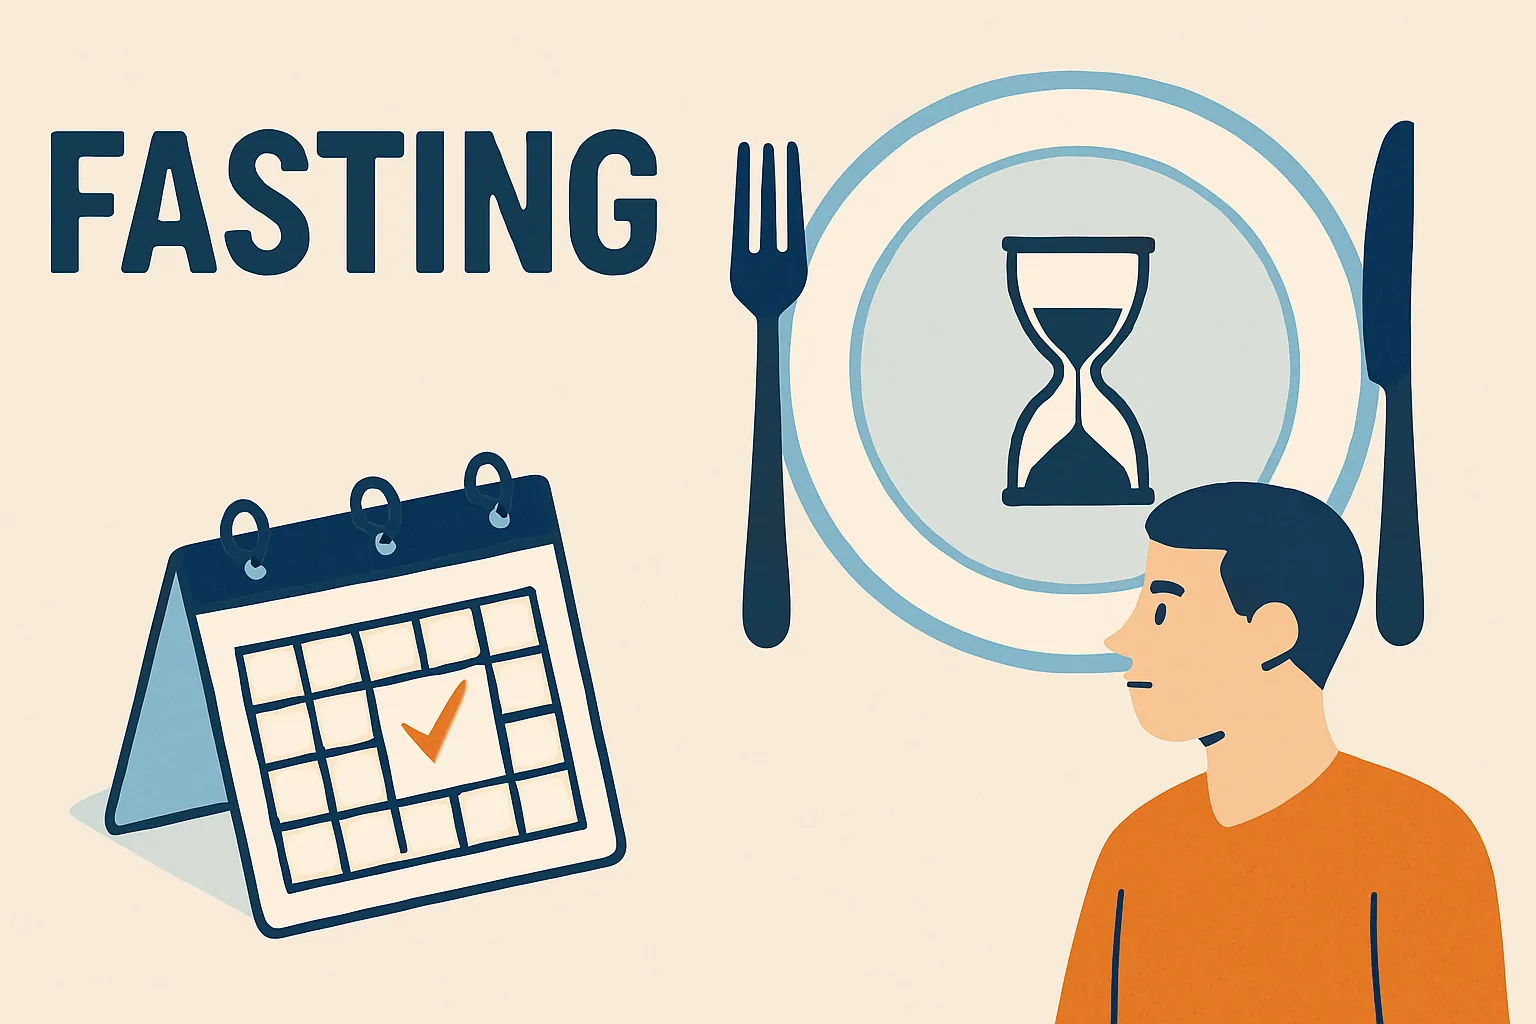
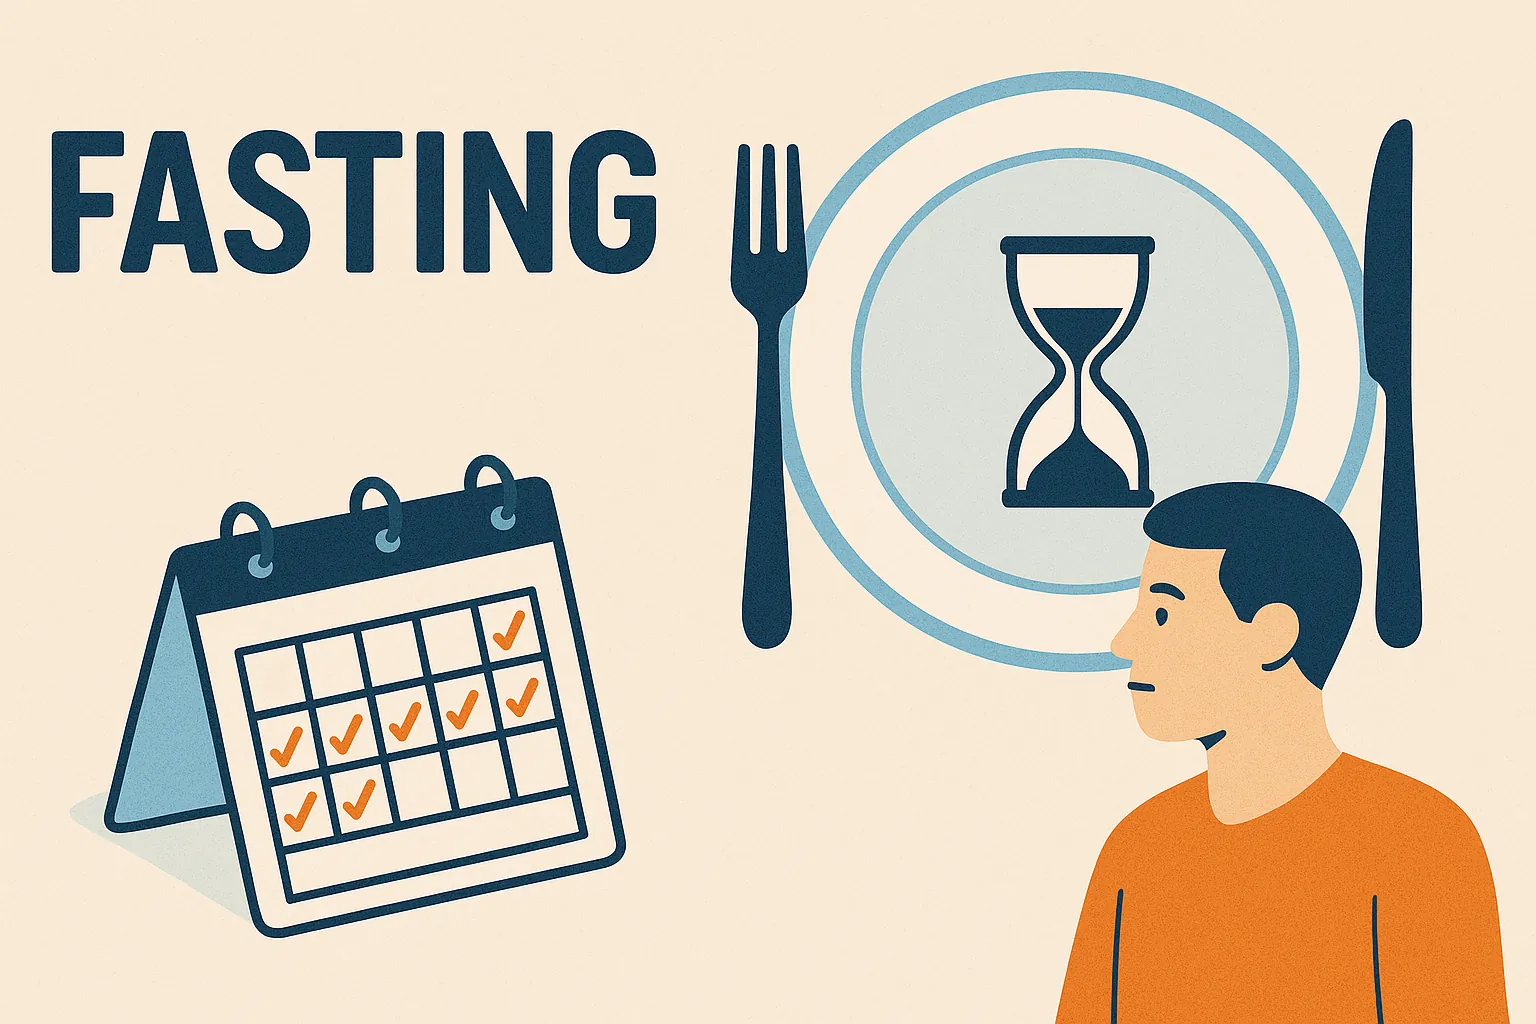
strict-fasting-8days 1 month update

diff --git a/docs/articles/posts/personal-development/experience-strict-fasting-8days/experience-strict-fasting-8days.md b/docs/articles/posts/personal-development/experience-strict-fasting-8days/experience-strict-fasting-8days.md
@@ -2,11 +2,12 @@
 title: "Experience: Strict fasting for 8 days"
 slug: experience-strict-fasting-8days
 date: 2025-04-10
-updated: 2025-04-10
+updated: 2025-04-12
 tags:
 - Experience
 - Guide
 - Fitness
+- Health
 categories:
 - Personal Development
 description: I did near zero calories fasting for 8 days - here's what happened
@@ -24,7 +25,7 @@ comments: true
 ## Motivation
 - **Fatty liver**: simple calories deficit doesn't help - deep ketosis e.g. through fasting necessary [^fattyliver]
 - Experience how **deep ketosis & autophagy** feel
-- Reset salt, sweetness, insulin and food volume **desensitization**
+- Reset salt, sweetness, insulin and food volume **desensitization** as well as **breaking habits** of e.g. regular snacking or eating out of **boredom rather than hunger**
 - Get a bit **leaner**
 
 ## The plan
@@ -36,7 +37,7 @@ comments: true
 - **Tea**
     - Dandelion "Löwenzahn"
     - Nettle "Brenessel"
-- Apple **vinegar**: mild, low in calories and inhibits insulin spike
+- **Apple vinegar** (for tea): mild, low in calories and inhibits insulin spike
 
 #### Supplements
 - **Vitamins**: [^vitamins]
@@ -115,6 +116,12 @@ comments: true
 #### Day 7-10
 - Prepare for **ending the fasting** based on personal goals and how fasting that long feels
 
+#### Day 14-16
+- Measure again after ~1 week of eating normal to **learn about short term recovery**
+
+#### Day ~30
+- Measure again to learn about **longer term (persistent) effects**
+
 ## My actual experience
 
 ### Energy/Endurance
@@ -126,10 +133,10 @@ comments: true
 
 ``` mermaid
 xychart-beta
-        x-axis "Day" [0, 1, 2, 3, 4, 5, 6, 7, 8, 9, 10, 11, 16]
+        x-axis "Day" [0, 1, 2, 3, 4, 5, 6, 7, 8, 9, 10, 11, 16, 27]
         y-axis "1 to 5 (highest)" 1 --> 5
 
-        bar "Energy" [5, 3, 2, 3, 3, 2, 3, 2, 1, 3, 4, 4, 4]
+        bar "Energy" [5, 3, 2, 3, 3, 2, 3, 2, 1, 3, 4, 4, 4, 5]
         bar "Energy" [5, 3, 2, 3, 3, 2, 3, 2, 1, 3, 4, 4]
 ```
 
@@ -139,6 +146,7 @@ xychart-beta
     - this again showed that activity wasn't impossible, but rather the **body just "strongly discouraged" activity to conserve energy**
 - Even after eating normally again, especially during training (gymnastics) I noticed energy wasn't back to the levels before
 - Energy preservation was also noticeable through indoor **temperature feeling 2-5°C lower** and warmer clothes didn't help so much as cranking the heating up
+- Might be due to needing to establish a proper sleep routine again or due to being very careful about gaining any unwanted fat back, but my energy levels only really recovered fully after about 1 month (also with 1 week vacation during that time)
 
 ### Power/strength output
 
@@ -147,10 +155,10 @@ xychart-beta
 
 ``` mermaid
 xychart-beta
-        x-axis "Day" [0, 1, 2, 3, 4, 5, 6, 7, 8, 9, 10, 11, 16]
+        x-axis "Day" [0, 1, 2, 3, 4, 5, 6, 7, 8, 9, 10, 11, 16, 27]
         y-axis "1 to 5 (highest)" 1 --> 5
 
-        bar "Power" [5, 3, 4, 4, 3, 3, 4, 3, 4, 4, 4, 4, 4]
+        bar "Power" [5, 3, 4, 4, 3, 3, 4, 3, 4, 4, 4, 4, 4, 5]
         bar "Power" [5, 3, 4, 4, 3, 3, 4, 3, 4, 4, 4, 4]
 ```
 
@@ -164,10 +172,10 @@ xychart-beta
 
 ``` mermaid
 xychart-beta
-        x-axis "Day" [0, 1, 2, 3, 4, 5, 6, 7, 8, 9, 10, 11, 16]
+        x-axis "Day" [0, 1, 2, 3, 4, 5, 6, 7, 8, 9, 10, 11, 16, 27]
         y-axis "1 to 5 (highest)" 1 --> 5
 
-        bar "Dizzy" [1, 1, 1, 2, 4, 2, 2, 2, 3, 3, 2, 1, 1]
+        bar "Dizzy" [1, 1, 1, 2, 4, 2, 2, 2, 3, 3, 2, 1, 1, 1]
         bar "Dizzy" [1, 1, 1, 2, 4, 2, 2, 2, 3, 3, 2, 1]
 ```
 
@@ -182,10 +190,10 @@ xychart-beta
 
 ``` mermaid
 xychart-beta
-        x-axis "Day" [0, 1, 2, 3, 4, 5, 6, 7, 8, 9, 10, 11, 16]
+        x-axis "Day" [0, 1, 2, 3, 4, 5, 6, 7, 8, 9, 10, 11, 16, 27]
         y-axis "1 to 5 (highest)" 1 --> 5
 
-        bar "Mood" [5, 4, 3, 4, 3, 4, 4, 4, 3, 2, 4, 4, 4]
+        bar "Mood" [5, 4, 3, 4, 3, 4, 4, 4, 3, 2, 4, 4, 4, 5]
         bar "Mood" [5, 4, 3, 4, 3, 4, 4, 4, 3, 2, 4, 4]
 ```
 
@@ -198,10 +206,10 @@ xychart-beta
 
 ``` mermaid
 xychart-beta
-        x-axis "Day" [0, 1, 2, 3, 4, 5, 6, 7, 8, 9, 10, 11, 16]
+        x-axis "Day" [0, 1, 2, 3, 4, 5, 6, 7, 8, 9, 10, 11, 16, 27]
         y-axis "1 to 5 (highest)" 1 --> 5
 
-        bar "Motivation" [5, 1, 2, 3, 3, 3, 4, 2, 3, 2, 3, 4, 5]
+        bar "Motivation" [5, 1, 2, 3, 3, 3, 4, 2, 3, 2, 3, 4, 5, 5]
         bar "Motivation" [5, 1, 2, 3, 3, 3, 4, 2, 3, 2, 3, 4]
 ```
 
@@ -213,13 +221,14 @@ xychart-beta
 
 ``` mermaid
 xychart-beta
-        x-axis "Day" [0, 1, 2, 3, 4, 5, 6, 7, 8, 9, 10, 11, 16]
+        x-axis "Day" [0, 1, 2, 3, 4, 5, 6, 7, 8, 9, 10, 11, 16, 27]
         y-axis "1 to 5 (highest)" 1 --> 5
 
-        bar "Hunger" [2, 2, 3, 2, 1, 1, 1, 2, 4, 3, 3, 3, 2]
+        bar "Hunger" [2, 2, 3, 2, 1, 1, 1, 2, 4, 3, 3, 3, 2, 1]
         bar "Hunger" [2, 2, 3, 2, 1, 1, 1, 2, 4, 3, 3, 3]
 ```
 
+- On day 0 hunger wasn't at its lowest due to the ongoing fasting prep of eating less for several weeks
 - As expected, probably **keeping insulin very low** at all times by staying at almost zero with calories helped with keeping **hunger in check** so that it was only a minor inconvenience - pretty unimportant e.g. compared to lower energy levels
 
 ### Craving
@@ -228,10 +237,10 @@ xychart-beta
 
 ``` mermaid
 xychart-beta
-        x-axis "Day" [0, 1, 2, 3, 4, 5, 6, 7, 8, 9, 10, 11, 16]
+        x-axis "Day" [0, 1, 2, 3, 4, 5, 6, 7, 8, 9, 10, 11, 16, 27]
         y-axis "1 to 5 (highest)" 1 --> 5
 
-        bar "Craving" [1, 2, 3, 4, 5, 4, 3, 4, 3, 4, 5, 3, 4]
+        bar "Craving" [1, 2, 3, 4, 5, 4, 3, 4, 3, 4, 5, 3, 4, 1]
         bar "Craving" [1, 2, 3, 4, 5, 4, 3, 4, 3, 4, 5, 3]
 ```
 
@@ -241,6 +250,7 @@ xychart-beta
 - On day 5 I switched out some tee with heavily diluted (20 kCal) DIY hot chocolate
 - On day 6 I **increased the sweetened consumption** yet again, **making it hard to fall and stay asleep**
 - Before going into calory surplus on day 11, I still felt **strong cravings** at intake levels that should have been around maintenance level (and I didn't feel hungry)
+- After about a month and working through my "want to cook and taste pipeline" I tried to focus 1) on only eating when hungry 2) reducing salt and sweetness in cooking in general 3) reducing snack frequency and size, which **after time toned down my cravings and eating out of habit or boredom**
 
 ### Pain
 
@@ -251,10 +261,10 @@ xychart-beta
 
 ``` mermaid
 xychart-beta
-        x-axis "Day" [0, 1, 2, 3, 4, 5, 6, 7, 8, 9, 10, 11, 16]
+        x-axis "Day" [0, 1, 2, 3, 4, 5, 6, 7, 8, 9, 10, 11, 16, 27]
         y-axis "1 to 5 (highest)" 1 --> 5
 
-        bar "Pain" [1, 1, 3, 4, 1, 2, 4, 1, 1, 1, 1, 1, 1]
+        bar "Pain" [1, 1, 3, 4, 1, 2, 4, 1, 1, 1, 1, 1, 1, 1]
         bar "Pain" [1, 1, 3, 4, 1, 2, 4, 1, 1, 1, 1, 1]
 ```
 
@@ -269,10 +279,10 @@ xychart-beta
 
 ``` mermaid
 xychart-beta
-        x-axis "Day" [0, 1, 2, 3, 4, 5, 6, 7, 8, 9, 10, 11, 16]
+        x-axis "Day" [0, 1, 2, 3, 4, 5, 6, 7, 8, 9, 10, 11, 16, 27]
         y-axis "1 to 5 (highest)" 1 --> 5
 
-        bar [5, 5, 5, 5, 4, 3, 2, 1, 4, 3, 3, 2, 4]
+        bar [5, 5, 5, 5, 4, 3, 2, 1, 4, 3, 3, 2, 4, 5]
         bar [5, 5, 5, 5, 4, 3, 2, 1, 4, 3, 3, 2]
 ```
 
@@ -285,10 +295,10 @@ xychart-beta
 
 ``` mermaid
 xychart-beta
-        x-axis "Day" [0, 1, 2, 3, 4, 5, 6, 7, 8, 9, 10, 11, 16]
+        x-axis "Day" [0, 1, 2, 3, 4, 5, 6, 7, 8, 9, 10, 11, 16, 27]
         y-axis "1 to 5 (highest)" 1 --> 5
 
-        bar "Sleepy" [1, 2, 3, 2, 3, 2, 4, 5, 4, 4, 3, 3, 2]
+        bar "Sleepy" [1, 2, 3, 2, 3, 2, 4, 5, 4, 4, 3, 3, 2, 1]
         bar "Sleepy" [1, 2, 3, 2, 3, 2, 4, 5, 4, 4, 3, 3]
 ```
 
@@ -303,15 +313,21 @@ xychart-beta
 
 ``` mermaid
 xychart-beta
-        x-axis "Day" [0, 1, 2, 3, 4, 5, 6, 7, 8, 9, 10, 11, 16]
+        x-axis "Day" [0, 1, 2, 3, 4, 5, 6, 7, 8, 9, 10, 11, 16, 27]
         y-axis "kg"
 
-        bar [66.4, 66.1, 65.5, 65.2, 65.2, 64.7, 63.9, 63.2, 62.8, 62.8, 63.4, 64.1, 65.4]
+        bar [66.4, 66.1, 65.5, 65.2, 65.2, 64.7, 63.9, 63.2, 62.8, 62.8, 63.4, 64.1, 65.4, 64.0]
         bar [66.4, 66.1, 65.5, 65.2, 65.2, 64.7, 63.9, 63.2, 62.8, 62.8, 63.4, 64.1]
 ```
 
-- Kind of in line with expectations, considering the bodies energy savings attempts maybe reducing my base metabolic rate from ~1600 to maybe below ~1300 or lower, **final weight loss was about 1kg** - 1.5kg
-- My body fat measured via caliper in the suprailiac area went from 6.5mm to 5.5mm (day 8)
+- Kind of in line with expectations, considering the bodies energy savings attempts maybe reducing my base metabolic rate from ~1600 to maybe below ~1300 or lower, **final weight loss was about 1kg to 2kg** (through fasting alone)
+  - It's worth to note that when I started to eat less already 2-3 weeks before the fasting, my weight was around 68kg
+  - The last weight of 64kg was after switching to a more low-carb, low-volume and less watery diet (and after day of generally eating less calories on top)
+- My suprailiac skinfold [^supra] measured via caliper went from 6.5mm to 5.5mm (day 8) to just shy of 6mm (day 27)
+
+![suprailiac](suprailiac.webp)
+
+[^supra]: https://legionathletics.com/body-fat-calipers/
 
 ### Resting heart rate
 
@@ -319,10 +335,10 @@ xychart-beta
 
 ``` mermaid
 xychart-beta
-        x-axis "Day" [0, 1, 2, 3, 4, 5, 6, 7, 8, 9, 10, 11, 16]
+        x-axis "Day" [0, 1, 2, 3, 4, 5, 6, 7, 8, 9, 10, 11, 16, 27]
         y-axis "bpm" 30 --> 51
 
-        bar [51, 45, 48, 37, 38, 37, 37, 47, 43, 47, 45, 49, 56]
+        bar [51, 45, 48, 37, 38, 37, 37, 47, 43, 47, 45, 49, 56, 54]
         bar [51, 45, 48, 37, 38, 37, 37, 47, 43, 47, 45, 49]
 ```
 
@@ -335,10 +351,10 @@ xychart-beta
 
 ``` mermaid
 xychart-beta
-        x-axis "Day" [0, 1, 2, 3, 4, 5, 6, 7, 8, 9, 10, 11, 16]
+        x-axis "Day" [0, 1, 2, 3, 4, 5, 6, 7, 8, 9, 10, 11, 16, 27]
         y-axis "kCal"
 
-        bar [1000, 20, 20, 20, 20, 80, 80, 140, 1500, 1800, 1800, 2400, 1900]
+        bar [1000, 20, 20, 20, 20, 80, 80, 140, 1500, 1800, 1800, 2400, 1900, 1300]
         bar [1000, 20, 20, 20, 20, 80, 80, 140, 1500, 1800, 1800, 2400]
 ```
 
@@ -352,10 +368,10 @@ xychart-beta
 
 ``` mermaid
 xychart-beta
-        x-axis "Day" [0, 1, 2, 3, 4, 5, 6, 7, 8, 9, 10, 11, 16]
+        x-axis "Day" [0, 1, 2, 3, 4, 5, 6, 7, 8, 9, 10, 11, 16, 27]
         y-axis "ml" 0 --> 3600
 
-        bar [2000, 2400, 2400, 2400, 2000, 2400, 3000, 3600, 1700, 2000, 2000, 2000, 2000]
+        bar [2000, 2400, 2400, 2400, 2000, 2400, 3000, 3600, 1700, 2000, 2000, 2000, 2000, 1500]
         bar [2000, 2400, 2400, 2400, 2000, 2400, 3000, 3600, 1700, 2000, 2000, 2000]
 ```
 
@@ -369,16 +385,18 @@ xychart-beta
 
 ``` mermaid
 xychart-beta
-        x-axis "Day" [0, 1, 2, 3, 4, 5, 6, 7, 8, 9, 10, 11, 16]
+        x-axis "Day" [0, 1, 2, 3, 4, 5, 6, 7, 8, 9, 10, 11, 16, 27]
         y-axis "mmHg"
 
-        line "Sys" [99, 98, 94, 100, 99, 97, 101, 99, 91, 94, 97, 93, 92]
+        line "Sys" [99, 98, 94, 100, 99, 97, 101, 99, 91, 94, 97, 93, 92, 93]
         line "Sys" [99, 98, 94, 100, 99, 97, 101, 99, 91, 94, 97, 93]
-        line "Dia" [66, 61, 59, 65, 69, 64, 68, 63, 55, 64, 58, 60, 57]
+        line "Dia" [66, 61, 59, 65, 69, 64, 68, 63, 55, 64, 58, 60, 57, 63]
 ```
 
 - Even though I exercise a lot, I guess due to low body weight **my blood pressure is generally low**, giving me not a lot of buffer before other circumstances that lower pressure even further lead noticeable dizziness
 - Blood pressure seemed **fine though until I started to get short black outs on day 7 and then especially day 8** when trying to stand up from sitting too quickly. I didn't want to get to a place were there was a risk of collapsing while standing, so I took this as a **sign to quit the fasting**
+- The **reduction blood pressure by around 5%** seem to stay after 1 month, also showing my experience from other diets again on how weight affects blood pressure rather directly
+    - This might also explain why perceived energy levels took so long to recover - my absolute values are just really low especially now 
 
 ### Stress / HRV
 
@@ -387,10 +405,10 @@ xychart-beta
 
 ``` mermaid
 xychart-beta
-        x-axis "Day" [0, 1, 2, 3, 4, 5, 6, 7, 8, 9, 10, 11, 16]
+        x-axis "Day" [0, 1, 2, 3, 4, 5, 6, 7, 8, 9, 10, 11, 16, 27]
         y-axis "Value" 0 --> 31
 
-        bar [33, 24, 26, 23, 28, 21, 23, 27, 29, 26, 31, 32, 34]
+        bar [33, 24, 26, 23, 28, 21, 23, 27, 29, 26, 31, 32, 34, 34]
         bar [33, 24, 26, 23, 28, 21, 23, 27, 29, 26, 31, 32]
 ```
 
@@ -406,13 +424,12 @@ xychart-beta
 - This is also connected to maybe the **most interesting open question: how much did giving in to cravings** later e.g. via hot chocolate **"ruin" the later phases of fasting** by disturbing ketosis?
 - Fasting could be an **interesting alternative to the classical** e.g. 1000kcal deficit **mini-cut**, as science suggests that only the first days without food and out of ketosis are really harmful for muscle mass. My **strength performance even during fasting barely decreased**, maybe even rather increased a bit (of course less weight needs to be lifted for bodyweight exercises), suggesting that ketosis/fasting at least no longer than maybe 10 days isn't harmful here, but the **weight/fat loss is definitely there**
     - Thus I also wouldn't recommend e.g. eating 250g lean curd per day as some recommend - the 30g of protein aren't a lot given the deficit and I guess potentially disturbing ketosis would do more harm than good in this regard
+- Weight loss yet again directly **reduced my blood pressure** (by ~5%)
 - Considering very low levels of hunger, even without direct comparison **I'd recommend a near "zero diet" with supplements over classical Buchinger fasting with fruit/veggie juice for lunch**, as I don't think this would have helped with the cravings, but likely would maybe have rather increased them or added hunger to the mix via increased insulin
-- As somebody who exercises weight control through high volume meals, **feeling more full and satisfied even with smaller meals was noticeable and an unexpected benefit**
+- Regarding bad eating habits
+  - as somebody who exercises weight control through high volume meals, **feeling more full and satisfied even with smaller meals was noticeable and an unexpected benefit**
+  - reestablishing a **recent reference point through restraint of eating only when hungry**, not letting snacking escalate and especially also **not needing to season/flavor boost food right from the start** considerably helped with not having thoughts regularly revolve about eating
 - Unsurprisingly, due to giving into salt and sweetness cravings, the customary fasting break apple wasn't so much more exciting flavor-wise, though eating some solid was nice
 ![apple](<apple.webp>)
-
-## Postscript
-
-Man, I really not only missed the flavors from eating but maybe even more **not being able to meaningfully have fun with cooking**. I spent the next 1-2 weeks cooking and baking all sorts of old and new dishes, though starting of course with one of my favorites: Teriyaki chicken salad wrap. Just leaving it here...
-
+- I really not only missed the flavors from eating but maybe even more **not being able to meaningfully have fun with cooking**. I spent the next 1-2 weeks cooking and baking all sorts of old and new dishes, though starting of course with one of my favorites: Teriyaki chicken salad wrap. Just leaving it here...
 ![wrap](<wrap.webp>)
